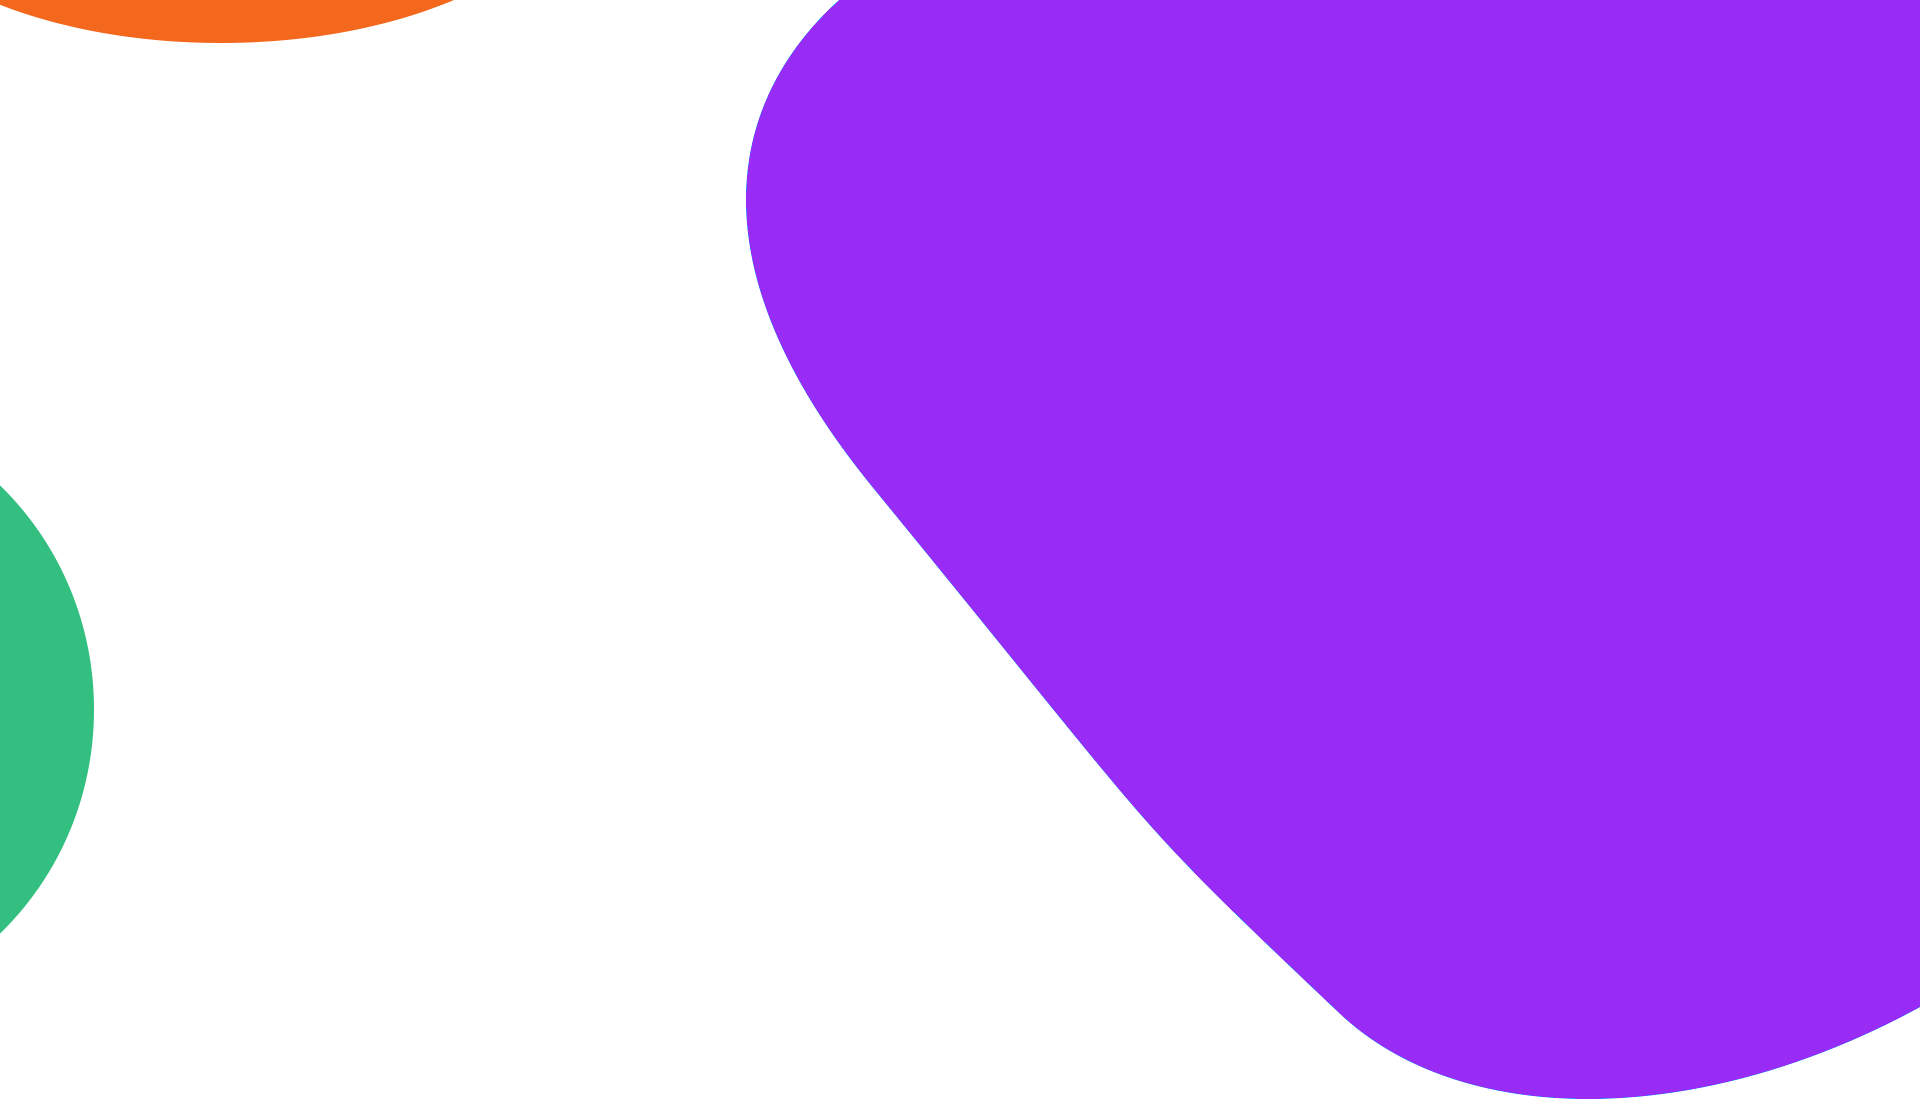
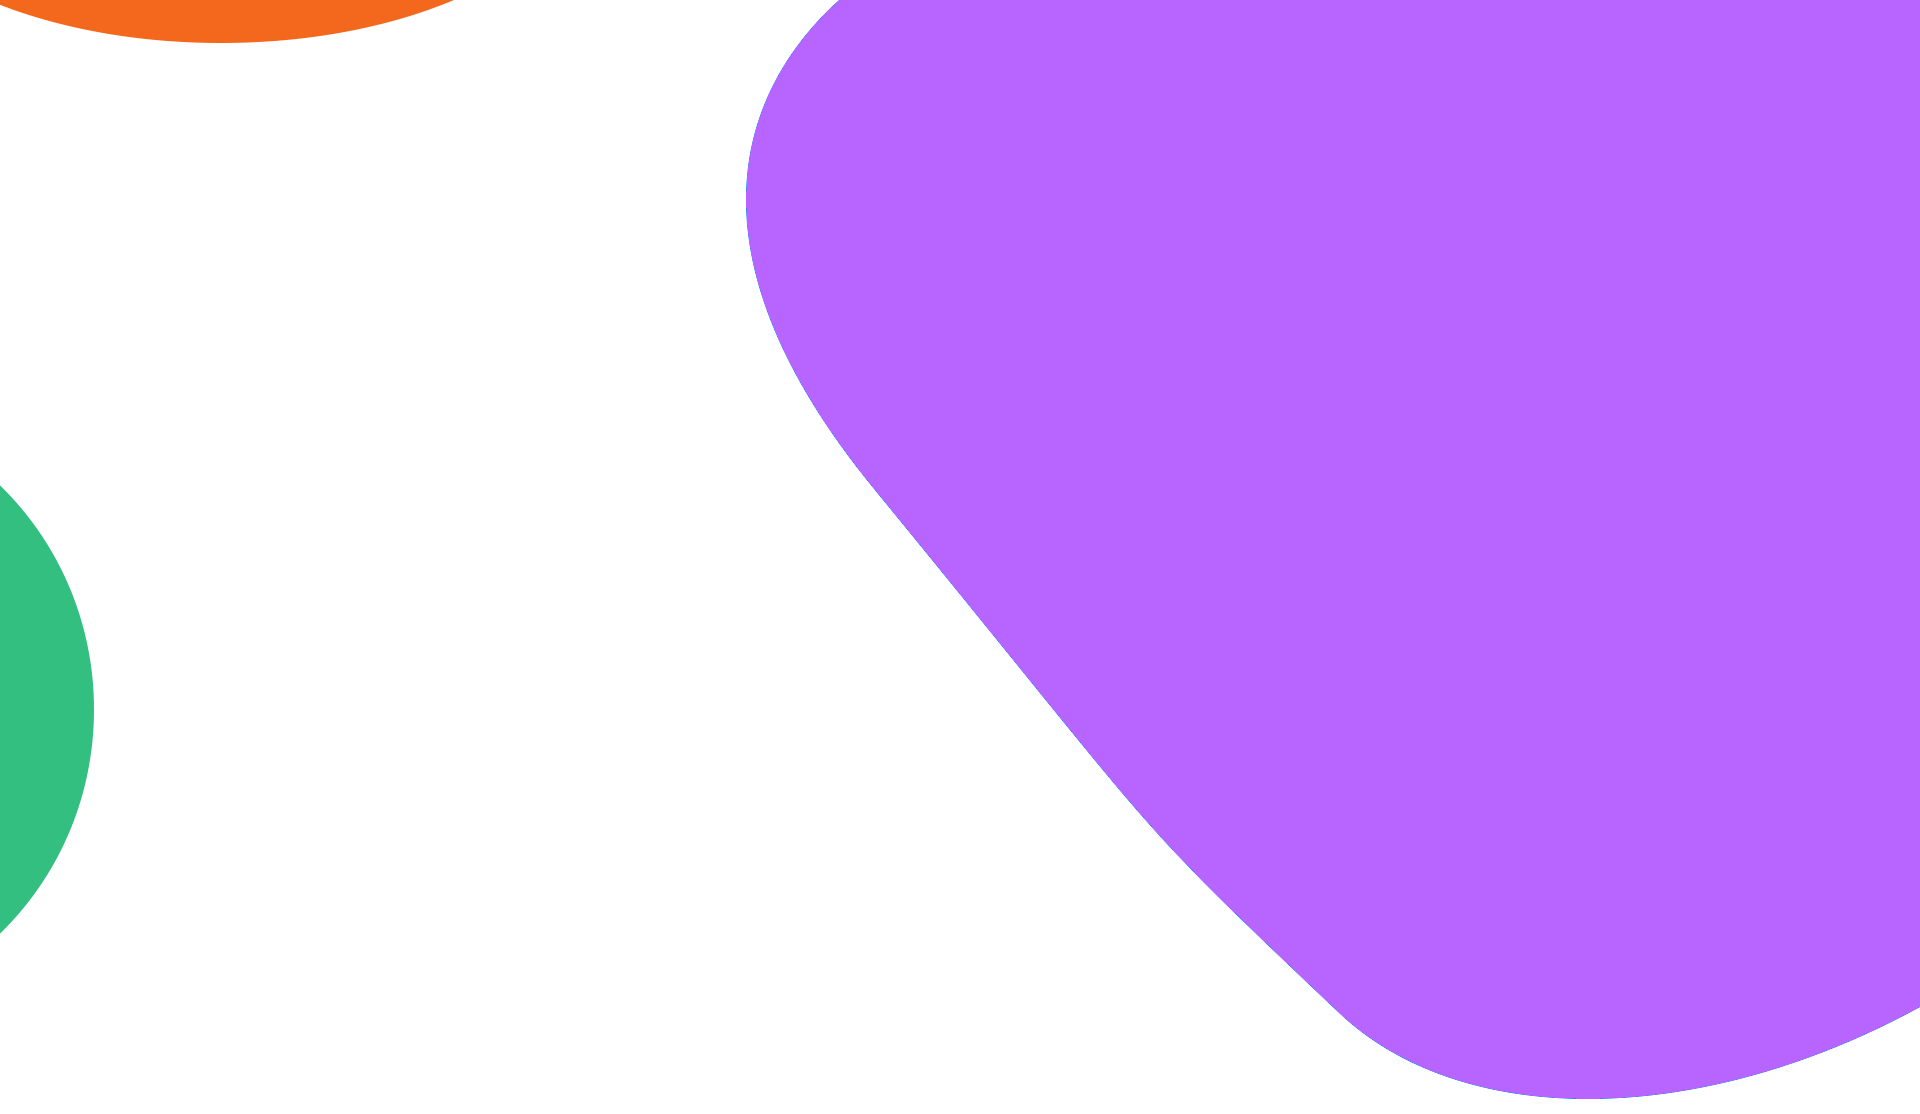
Change purple color

diff --git a/css/main.css b/css/main.css
@@ -1035,7 +1035,7 @@ a.has-text-dark:focus {
 }
 
 .has-text-primary {
-	color: #982CF4 !important
+	color: #B865FF !important
 }
 
 a.has-text-primary:hover,
@@ -1044,7 +1044,7 @@ a.has-text-primary:focus {
 }
 
 .has-background-primary {
-	background-color: #982CF4 !important
+	background-color: #B865FF !important
 }
 
 .has-text-link {
@@ -2272,7 +2272,7 @@ fieldset[disabled] .button.is-dark.is-inverted.is-outlined {
 }
 
 .button.is-primary {
-	background-color: #982CF4;
+	background-color: #B865FF;
 	border-color: transparent;
 	color: #fff
 }
@@ -2304,14 +2304,14 @@ fieldset[disabled] .button.is-dark.is-inverted.is-outlined {
 
 .button.is-primary[disabled],
 fieldset[disabled] .button.is-primary {
-	background-color: #982CF4;
+	background-color: #B865FF;
 	border-color: transparent;
 	box-shadow: none
 }
 
 .button.is-primary.is-inverted {
 	background-color: #fff;
-	color: #982CF4
+	color: #B865FF
 }
 
 .button.is-primary.is-inverted:hover,
@@ -2324,7 +2324,7 @@ fieldset[disabled] .button.is-primary.is-inverted {
 	background-color: #fff;
 	border-color: transparent;
 	box-shadow: none;
-	color: #982CF4
+	color: #B865FF
 }
 
 .button.is-primary.is-loading::after {
@@ -2333,21 +2333,21 @@ fieldset[disabled] .button.is-primary.is-inverted {
 
 .button.is-primary.is-outlined {
 	background-color: transparent;
-	border-color: #982CF4;
-	color: #982CF4
+	border-color: #B865FF;
+	color: #B865FF
 }
 
 .button.is-primary.is-outlined:hover,
 .button.is-primary.is-outlined.is-hovered,
 .button.is-primary.is-outlined:focus,
 .button.is-primary.is-outlined.is-focused {
-	background-color: #982CF4;
-	border-color: #982CF4;
+	background-color: #B865FF;
+	border-color: #B865FF;
 	color: #fff
 }
 
 .button.is-primary.is-outlined.is-loading::after {
-	border-color: transparent transparent #982CF4 #982CF4 !important
+	border-color: transparent transparent #B865FF #B865FF !important
 }
 
 .button.is-primary.is-outlined.is-loading:hover::after,
@@ -2360,9 +2360,9 @@ fieldset[disabled] .button.is-primary.is-inverted {
 .button.is-primary.is-outlined[disabled],
 fieldset[disabled] .button.is-primary.is-outlined {
 	background-color: transparent;
-	border-color: #982CF4;
+	border-color: #B865FF;
 	box-shadow: none;
-	color: #982CF4
+	color: #B865FF
 }
 
 .button.is-primary.is-inverted.is-outlined {
@@ -2376,14 +2376,14 @@ fieldset[disabled] .button.is-primary.is-outlined {
 .button.is-primary.is-inverted.is-outlined:focus,
 .button.is-primary.is-inverted.is-outlined.is-focused {
 	background-color: #fff;
-	color: #982CF4
+	color: #B865FF
 }
 
 .button.is-primary.is-inverted.is-outlined.is-loading:hover::after,
 .button.is-primary.is-inverted.is-outlined.is-loading.is-hovered::after,
 .button.is-primary.is-inverted.is-outlined.is-loading:focus::after,
 .button.is-primary.is-inverted.is-outlined.is-loading.is-focused::after {
-	border-color: transparent transparent #982CF4 #982CF4 !important
+	border-color: transparent transparent #B865FF #B865FF !important
 }
 
 .button.is-primary.is-inverted.is-outlined[disabled],
@@ -3636,7 +3636,7 @@ fieldset[disabled] .button {
 }
 
 .notification.is-primary {
-	background-color: #982CF4;
+	background-color: #B865FF;
 	color: #fff
 }
 
@@ -3759,19 +3759,19 @@ fieldset[disabled] .button {
 }
 
 .progress.is-primary::-webkit-progress-value {
-	background-color: #982CF4
+	background-color: #B865FF
 }
 
 .progress.is-primary::-moz-progress-bar {
-	background-color: #982CF4
+	background-color: #B865FF
 }
 
 .progress.is-primary::-ms-fill {
-	background-color: #982CF4
+	background-color: #B865FF
 }
 
 .progress.is-primary:indeterminate {
-	background-image: linear-gradient(to right, #982CF4 30%, #dbdbdb 30%)
+	background-image: linear-gradient(to right, #B865FF 30%, #dbdbdb 30%)
 }
 
 .progress.is-link::-webkit-progress-value {
@@ -3938,8 +3938,8 @@ fieldset[disabled] .button {
 
 .table td.is-primary,
 .table th.is-primary {
-	background-color: #982CF4;
-	border-color: #982CF4;
+	background-color: #B865FF;
+	border-color: #B865FF;
 	color: #fff
 }
 
@@ -3986,7 +3986,7 @@ fieldset[disabled] .button {
 
 .table td.is-selected,
 .table th.is-selected {
-	background-color: #982CF4;
+	background-color: #B865FF;
 	color: #fff
 }
 
@@ -4006,7 +4006,7 @@ fieldset[disabled] .button {
 }
 
 .table tr.is-selected {
-	background-color: #982CF4;
+	background-color: #B865FF;
 	color: #fff
 }
 
@@ -4200,7 +4200,7 @@ fieldset[disabled] .button {
 }
 
 .tag:not(body).is-primary {
-	background-color: #982CF4;
+	background-color: #B865FF;
 	color: #fff
 }
 
@@ -4645,7 +4645,7 @@ fieldset[disabled] .select select:-ms-input-placeholder,
 
 .is-primary.input,
 .is-primary.textarea {
-	border-color: #982CF4
+	border-color: #B865FF
 }
 
 .is-primary.input:focus,
@@ -4969,11 +4969,11 @@ fieldset[disabled] .select select:hover {
 }
 
 .select.is-primary:not(:hover)::after {
-	border-color: #982CF4
+	border-color: #B865FF
 }
 
 .select.is-primary select {
-	border-color: #982CF4
+	border-color: #B865FF
 }
 
 .select.is-primary select:hover,
@@ -5249,7 +5249,7 @@ fieldset[disabled] .select select:hover {
 }
 
 .file.is-primary .file-cta {
-	background-color: #982CF4;
+	background-color: #B865FF;
 	border-color: transparent;
 	color: #fff
 }
@@ -5641,7 +5641,7 @@ fieldset[disabled] .select select:hover {
 }
 
 .help.is-primary {
-	color: #982CF4
+	color: #B865FF
 }
 
 .help.is-link {
@@ -6560,12 +6560,12 @@ a.list-item {
 }
 
 .message.is-primary .message-header {
-	background-color: #982CF4;
+	background-color: #B865FF;
 	color: #fff
 }
 
 .message.is-primary .message-body {
-	border-color: #982CF4;
+	border-color: #B865FF;
 	color: #0548b4
 }
 
@@ -7052,7 +7052,7 @@ print {
 }
 
 .navbar.is-primary {
-	background-color: #982CF4;
+	background-color: #B865FF;
 	color: #fff
 }
 
@@ -7112,7 +7112,7 @@ print {
 		color: #fff
 	}
 	.navbar.is-primary .navbar-dropdown a.navbar-item.is-active {
-		background-color: #982CF4;
+		background-color: #B865FF;
 		color: #fff
 	}
 }
@@ -10666,7 +10666,7 @@ print {
 }
 
 .hero.is-primary {
-	background-color: #982CF4;
+	background-color: #B865FF;
 	color: #fff
 }
 
@@ -10690,7 +10690,7 @@ print {
 
 @media screen and (max-width: 1023px) {
 	.hero.is-primary .navbar-menu {
-		background-color: #982CF4
+		background-color: #B865FF
 	}
 }
 
@@ -10736,16 +10736,16 @@ print {
 .hero.is-primary .tabs.is-toggle li.is-active a:hover {
 	background-color: #fff;
 	border-color: #fff;
-	color: #982CF4
+	color: #B865FF
 }
 
 .hero.is-primary.is-bold {
-	background-image: linear-gradient(141deg, #0070cc 0%, #982CF4 71%, #1a4bff 100%)
+	background-image: linear-gradient(141deg, #0070cc 0%, #B865FF 71%, #1a4bff 100%)
 }
 
 @media screen and (max-width: 768px) {
 	.hero.is-primary.is-bold .navbar-menu {
-		background-image: linear-gradient(141deg, #0070cc 0%, #982CF4 71%, #1a4bff 100%)
+		background-image: linear-gradient(141deg, #0070cc 0%, #B865FF 71%, #1a4bff 100%)
 	}
 }
 
@@ -11343,7 +11343,7 @@ header .app-title {
 }
 
 header .app-title span {
-	color: #982CF4;
+	color: #B865FF;
 	margin-left: 5px
 }
 
@@ -11375,7 +11375,7 @@ header .app-title span {
 }
 
 .banner form button {
-	background: #982CF4;
+	background: #B865FF;
 	color: white;
 	border: none;
 	font-weight: bold;
@@ -11468,7 +11468,7 @@ header .app-title span {
 }
 
 #testimonials .testimonials-container {
-	background: #982CF4;
+	background: #B865FF;
 	width: 340px;
 	height: 404px;
 	border-radius: 100%;
@@ -11514,7 +11514,7 @@ header .app-title span {
 }
 
 #testimonials .testimonials-container .testimonials-container-content .testimonials-item-container .testimonials-profile {
-	background: #982CF4;
+	background: #B865FF;
 	position: absolute;
 	top: -55px;
 	height: 130px;
@@ -11598,7 +11598,7 @@ header .app-title span {
 }
 
 .footer form button {
-	background: #982CF4;
+	background: #B865FF;
 	color: white;
 	border: none;
 	font-weight: bold;

diff --git a/index.html b/index.html
@@ -20,7 +20,7 @@
       <div class="banner">
          <img src="./img/banner-bg.png" class="is-absolute">
          <div class="container has-text-centered-mobile">
-            <header><a href="" class="app-title"><img src="./img/logo_horizontal.png"  width="312" height="58"/></a></header>
+            <header><a href="" class="app-title"><img src="./img/logo_horizontal_clip_gray.png"  width="312" height="58"/></a></header>
             <div class="columns">
                <div class="column has-text-centered-mobile">
                   <div>
